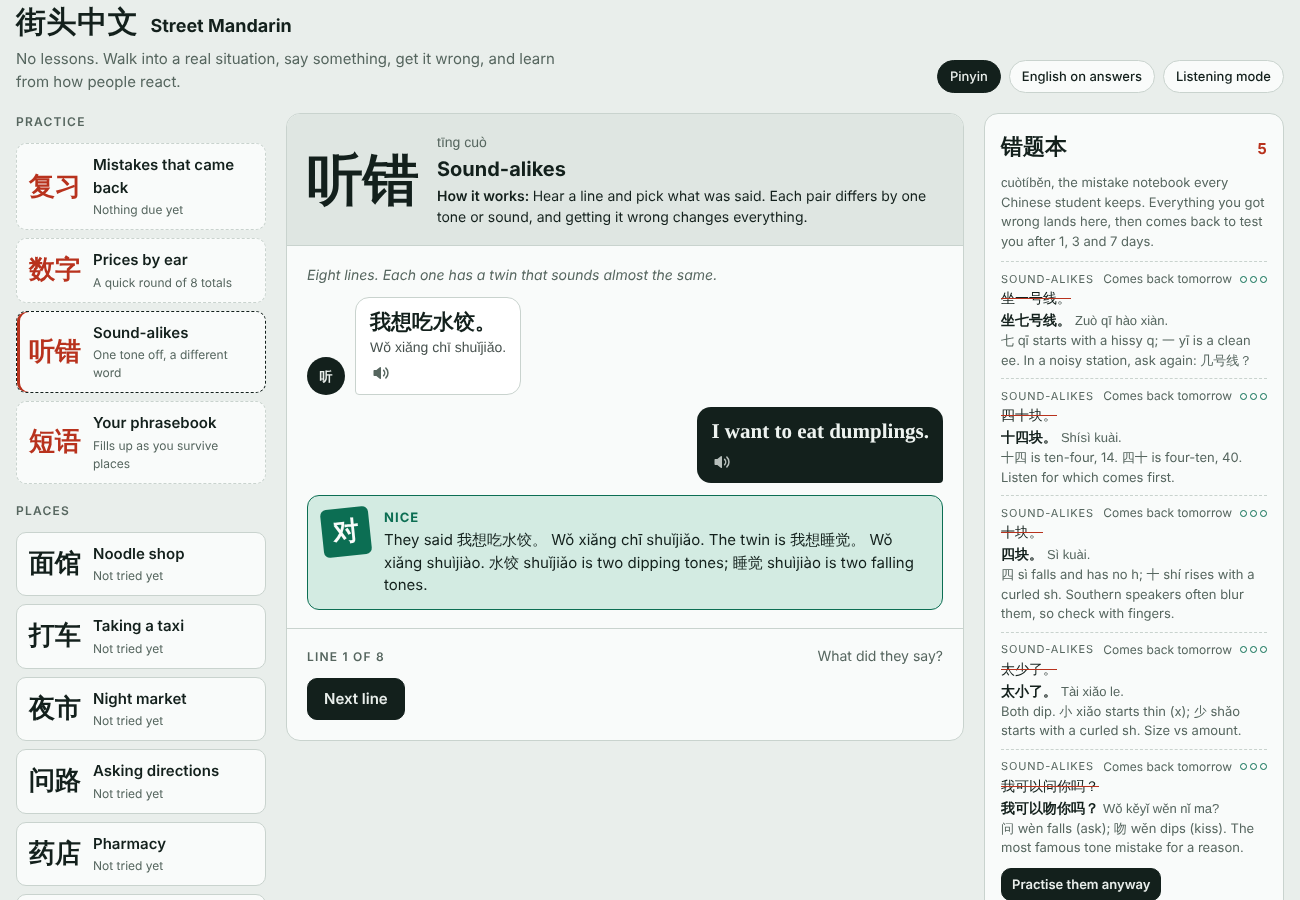
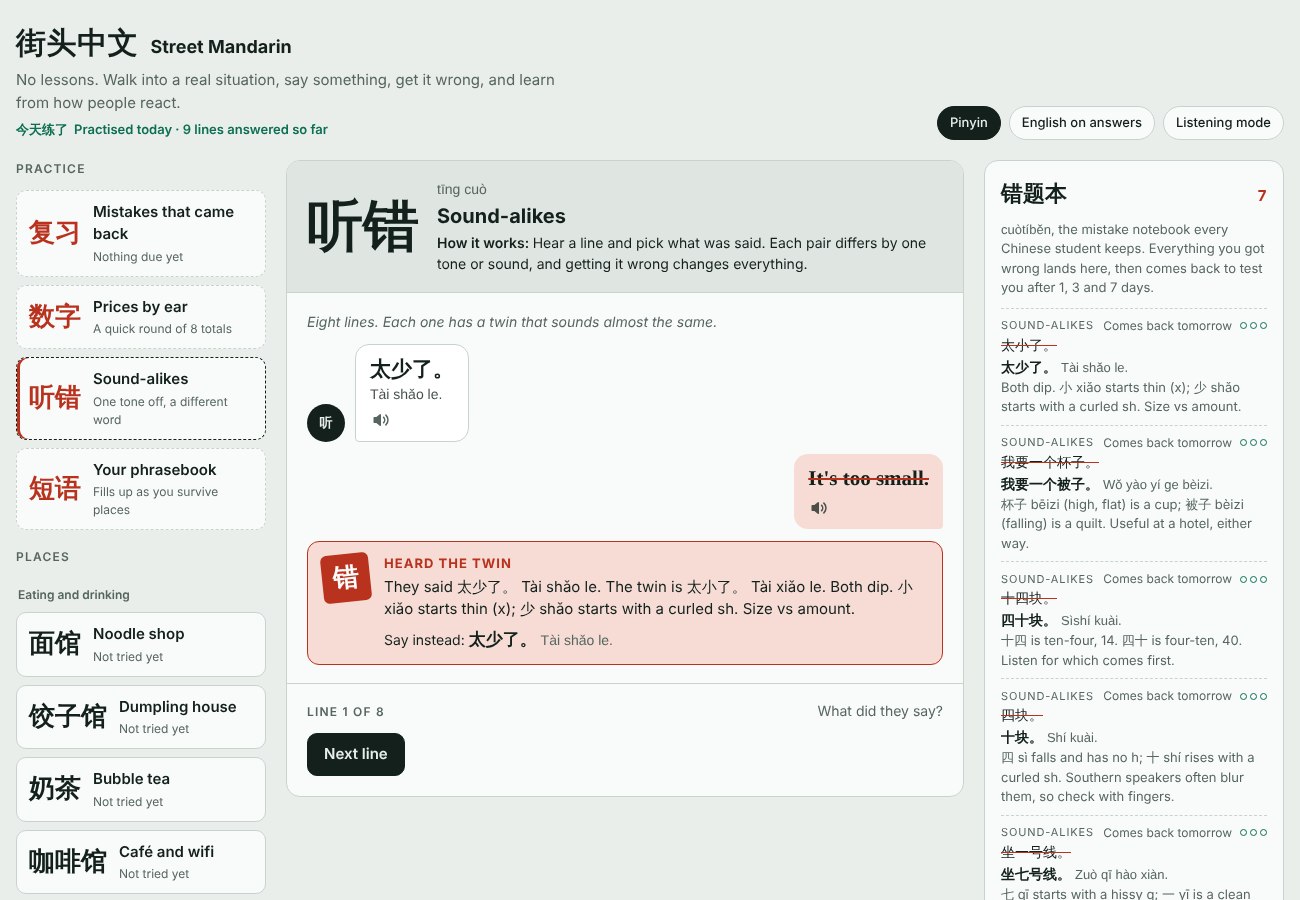
More sound-alikes; curveballs for the café and hospital
Claude-Session: https://claude.ai/code/session_01R34RyutKKVc3RdJZ63YMvT

diff --git a/scenes.js b/scenes.js
@@ -610,6 +610,14 @@ window.SCENES = [
   { id: "cafe", place: "咖啡馆", placePy: "kāfēiguǎn", en: "Café and wifi", who: "店员", whoPy: "diànyuán", whoEn: "the barista",
     goal: "Get an iced latte and the wifi password.",
     intro: "A small café with good chairs. You need coffee, and you need to get online.",
+    curveballs: [
+      { after: 0, what: "a sugar question", turn: { npc: ["要加糖吗？", "Yào jiā táng ma?", "Do you want sugar added?"], prompt: "No sugar, thanks.",
+        opts: [
+          { h: "不加糖，谢谢。", b: "不加糖|谢谢", p: "Bù jiā táng, xièxie.", e: "No sugar, thanks.", k: "good", note: "加 jiā is to add. Answer with the verb: 加 or 不加." },
+          { h: "不加汤，谢谢。", p: "Bù jiā tāng, xièxie.", e: "No soup, thanks.", k: "wrong", r: ["……汤？我们是咖啡店哦。不加糖是吧？", "…Tāng? Wǒmen shì kāfēi diàn o. Bù jiā táng shì ba?", "…Soup? We're a café. No sugar, right?"], note: "糖 táng (rising) is sugar; 汤 tāng (high and flat) is soup.", fix: ["不加糖。", "Bù jiā táng."] },
+          { h: "要。", p: "Yào.", e: "Yes.", k: "okay", carry: "Got a very sweet latte", r: ["好的，加糖。", "Hǎo de, jiā táng.", "OK, with sugar."], note: "要 yào says yes. For no sugar: 不加糖.", fix: ["不加糖，谢谢。", "Bù jiā táng, xièxie."] }
+        ] } }
+    ],
     turns: [
       { npc: ["你好，喝点什么？", "Nǐ hǎo, hē diǎn shénme?", "Hi, what would you like to drink?"], prompt: "Order an iced latte.",
         opts: [
@@ -660,6 +668,14 @@ window.SCENES = [
   { id: "clinic", place: "医院", placePy: "yīyuàn", en: "Hospital registration", who: "护士", whoPy: "hùshi", whoEn: "the nurse",
     goal: "Register to see a doctor for a bad stomach.",
     intro: "A busy hospital lobby. Before you see any doctor, you have to 挂号 guàhào, register, at the desk.",
+    curveballs: [
+      { after: 0, what: "an ID check", turn: { npc: ["身份证或者护照给我看一下。", "Shēnfènzhèng huòzhě hùzhào gěi wǒ kàn yíxià.", "Let me see your ID card or passport."], prompt: "Hand over your passport.",
+        opts: [
+          { h: "这是我的护照。", b: "这是|我的|护照", p: "Zhè shì wǒ de hùzhào.", e: "Here's my passport.", k: "good", note: "Hospitals register you by ID. Foreigners use their passport, 护照 hùzhào." },
+          { h: "我没有身份证。", p: "Wǒ méiyǒu shēnfènzhèng.", e: "I don't have an ID card.", k: "okay", r: ["护照也行。", "Hùzhào yě xíng.", "A passport works too."], note: "True, but she offered a passport as the alternative. Just hand it over.", fix: ["这是我的护照。", "Zhè shì wǒ de hùzhào."] },
+          { h: "我不看。", p: "Wǒ bú kàn.", e: "I won't look.", k: "wrong", r: ["不是你看，是我看！", "Bú shì nǐ kàn, shì wǒ kàn!", "Not YOU look, I look!"], note: "给我看一下 means \"let me see\". She wants to look at it.", fix: ["这是我的护照。", "Zhè shì wǒ de hùzhào."] }
+        ] } }
+    ],
     turns: [
       { npc: ["你好，挂什么科？", "Nǐ hǎo, guà shénme kē?", "Hello, which department?"], prompt: "Say your stomach hurts; you don't know which department.",
         opts: [

diff --git a/index.html b/index.html
@@ -929,6 +929,9 @@ const PAIRS = [
   { a: ["有盐吗？", "Yǒu yán ma?", "Is there salt?"], b: ["有烟吗？", "Yǒu yān ma?", "Do you have cigarettes?"], why: "盐 yán rises (salt); 烟 yān stays high (cigarettes, or smoke)." },
   { a: ["一碗。", "Yì wǎn.", "One bowl."], b: ["一万。", "Yí wàn.", "Ten thousand."], why: "碗 wǎn dips (a bowl); 万 wàn falls (10,000). Notice 一 changes tone too: yì before 3rd, yí before 4th." },
   { a: ["坐七号线。", "Zuò qī hào xiàn.", "Take Line 7."], b: ["坐一号线。", "Zuò yī hào xiàn.", "Take Line 1."], why: "七 qī starts with a hissy q; 一 yī is a clean ee. In a noisy station, ask again: 几号线？" },
+  { a: ["我想去北京。", "Wǒ xiǎng qù Běijīng.", "I want to go to Beijing."], b: ["我想去背景。", "Wǒ xiǎng qù bèijǐng.", "I want to go to the background."], why: "北京 Běijīng is 3rd then 1st (low, then high and flat); 背景 bèijǐng, background, is 4th then 3rd. Neither tone matches." },
+  { a: ["我喜欢熊猫。", "Wǒ xǐhuan xióngmāo.", "I like pandas."], b: ["我喜欢胸毛。", "Wǒ xǐhuan xiōngmáo.", "I like chest hair."], why: "熊猫 xióngmāo, panda, rises then stays high. Flip them to xiōngmáo and you've said chest hair. A classic." },
+  { a: ["我要一个杯子。", "Wǒ yào yí ge bēizi.", "I'd like a cup."], b: ["我要一个被子。", "Wǒ yào yí ge bèizi.", "I'd like a quilt."], why: "杯子 bēizi (high, flat) is a cup; 被子 bèizi (falling) is a quilt. Useful at a hotel, either way." },
   { a: ["太小了。", "Tài xiǎo le.", "It's too small."], b: ["太少了。", "Tài shǎo le.", "It's too little."], why: "Both dip. 小 xiǎo starts thin (x); 少 shǎo starts with a curled sh. Size vs amount." }
 ];
 let eq = [], ei = 0, eRight = 0, eAnswered = false, ePick = null;
